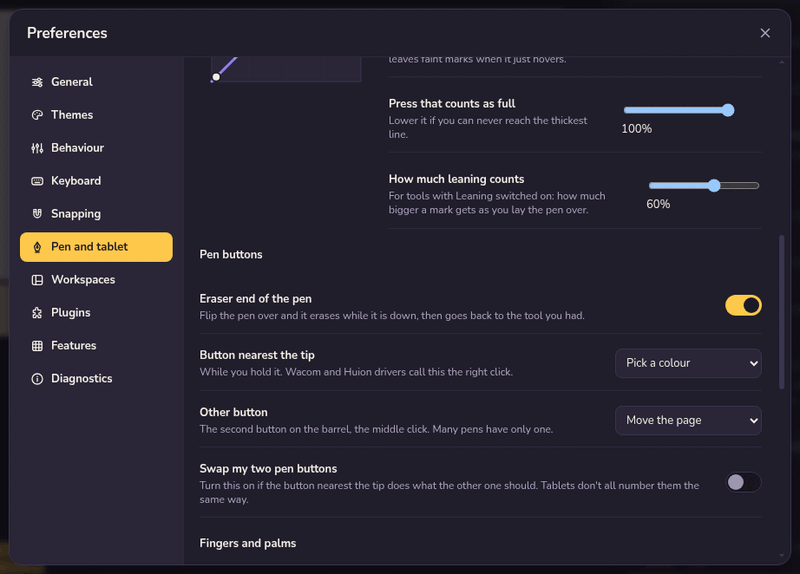
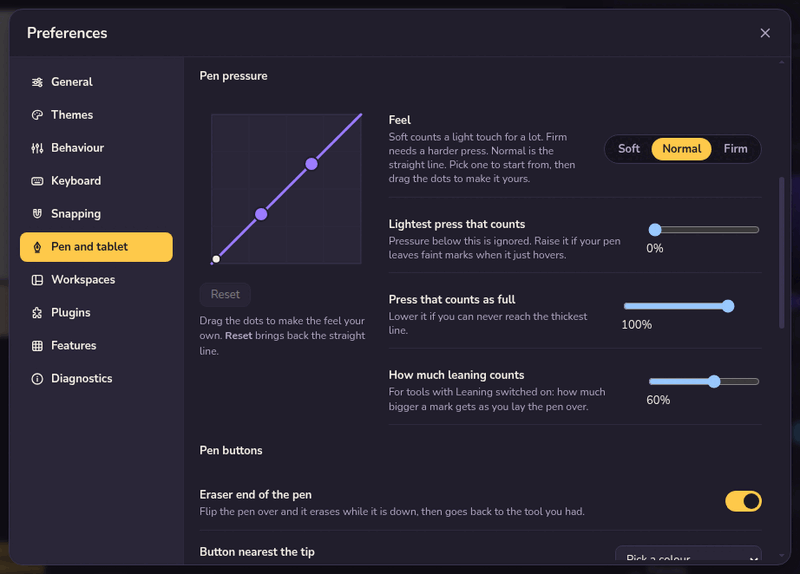
Pen and tablet: the stabilizer's 12% now reaches tools saved with the old Off, without touching anyone's own number; Reset under the pressure curve puts the straight line back and leaves the other pen settings alone
- a per-tool flag records the moment you move the slider or use the command, even to 0, so the number is yours; a tool never touched takes the start amount, and a later change to that start reaches it
- settings saved before the flag: a 0 was only ever the old start, so it becomes 12%, and any other saved number is kept as chosen
- Reset under the graph, greyed while the curve is already the straight line; the hint says Normal is the straight line and to drag the dots to make it your own
- the words above the table say what the stabilizer does and that every tool starts at 12%

diff --git a/test/tablet/pen-tidy.test.ts b/test/tablet/pen-tidy.test.ts
@@ -1,0 +1,105 @@
+// @vitest-environment jsdom
+// The stabilizer's start reaching tools whose saved settings predate it, without touching anyone's own number; and the
+// pressure curve's Reset.
+import { beforeEach, describe, expect, it } from 'vitest';
+import { CURVE_PRESETS, isPlainCurve, presetOf } from '../../src/tablet/curve';
+import { cleanPen, DEFAULT_PEN, DEFAULT_STABILIZER, getPen, PEN_TOOLS, resetPen, setPenDevice, setToolPen, stabilizerFor } from '../../src/tablet/settings';
+
+/** What every save wrote before the flag existed: all six tools in full, at the old start of 0. */
+const legacy = (over: Record<string, Record<string, unknown>> = {}) => ({
+  pen: { curve: CURVE_PRESETS.normal, min: 0, max: 1, tiltAmount: 60, eraserEnd: true, barrel1: 'eyedropper', barrel2: 'pan', swapButtons: false },
+  tools: Object.fromEntries(PEN_TOOLS.map((id) => [id, { size: false, opacity: false, flow: false, tilt: false, stabilizer: 0, stabMode: 'string', ...(over[id] ?? {}) }])),
+  seen: true,
+});
+
+beforeEach(() => resetPen());
+
+describe('stabilizerFor', () => {
+  it('keeps a number the person set, including a 0 they chose', () => {
+    expect(stabilizerFor(40, true)).toEqual({ stabilizer: 40, stabSet: true });
+    expect(stabilizerFor(0, true)).toEqual({ stabilizer: 0, stabSet: true });
+  });
+  it('gives the start to a tool that was never touched, so a change to the start reaches it', () => {
+    expect(stabilizerFor(0, false)).toEqual({ stabilizer: DEFAULT_STABILIZER, stabSet: false });
+    expect(stabilizerFor(33, false)).toEqual({ stabilizer: DEFAULT_STABILIZER, stabSet: false });
+  });
+  it('settings saved before the flag: a 0 was only the old start, any other number was chosen', () => {
+    expect(stabilizerFor(0, undefined)).toEqual({ stabilizer: DEFAULT_STABILIZER, stabSet: false });
+    expect(stabilizerFor(35, undefined)).toEqual({ stabilizer: 35, stabSet: true });
+    expect(stabilizerFor(250, undefined)).toEqual({ stabilizer: 100, stabSet: true });
+  });
+  it('anything missing or odd takes the start', () => {
+    expect(stabilizerFor(undefined, undefined).stabilizer).toBe(DEFAULT_STABILIZER);
+    expect(stabilizerFor('lots', true).stabilizer).toBe(DEFAULT_STABILIZER);
+    expect(stabilizerFor(NaN, undefined).stabilizer).toBe(DEFAULT_STABILIZER);
+  });
+});
+
+describe('saved settings from before the new start', () => {
+  it('untouched tools (all at the old 0) come up at 12%, on', () => {
+    const p = cleanPen(legacy());
+    for (const id of PEN_TOOLS) expect(p.tools[id]).toMatchObject({ stabilizer: 12, stabSet: false });
+  });
+  it('a tool the person had already set keeps its number, and the others still take the start', () => {
+    const p = cleanPen(legacy({ pencil: { stabilizer: 55 }, eraser: { stabilizer: 8 } }));
+    expect(p.tools.pencil).toMatchObject({ stabilizer: 55, stabSet: true });
+    expect(p.tools.eraser).toMatchObject({ stabilizer: 8, stabSet: true });
+    expect(p.tools.brush.stabilizer).toBe(12);
+    expect(p.tools.spray.stabilizer).toBe(12);
+  });
+  it('their other pen settings come through untouched', () => {
+    const p = cleanPen(legacy({ brush: { size: true, tilt: true, stabMode: 'average' } }));
+    expect(p.tools.brush).toMatchObject({ size: true, tilt: true, stabMode: 'average' });
+    expect(p.pen.barrel1).toBe('eyedropper');
+    expect(p.seen).toBe(true);
+  });
+  it('once saved again, a tool left alone stays at the start and a chosen 0 stays 0', () => {
+    const first = cleanPen(legacy());
+    const again = cleanPen(JSON.parse(JSON.stringify({ ...first, tools: { ...first.tools, dither: { ...first.tools.dither, stabilizer: 0, stabSet: true } } })));
+    expect(again.tools.brush).toMatchObject({ stabilizer: 12, stabSet: false });
+    expect(again.tools.dither).toMatchObject({ stabilizer: 0, stabSet: true });
+  });
+  it('a fresh start is still exactly the defaults', () => {
+    expect(cleanPen(null)).toEqual(DEFAULT_PEN);
+  });
+});
+
+describe('choosing a stabilizer', () => {
+  it('the slider (or the command) makes the number theirs, even 0', () => {
+    setToolPen('brush', { stabilizer: 0 });
+    expect(getPen().tools.brush).toMatchObject({ stabilizer: 0, stabSet: true });
+    setToolPen('pencil', { stabilizer: 30 });
+    expect(getPen().tools.pencil).toMatchObject({ stabilizer: 30, stabSet: true });
+  });
+  it('changing something else on a tool leaves it unset', () => {
+    setToolPen('shade', { size: true });
+    expect(getPen().tools.shade).toMatchObject({ size: true, stabilizer: 12, stabSet: false });
+  });
+  it('Put the pen settings back puts every tool back to 12% on, not off', () => {
+    for (const id of PEN_TOOLS) setToolPen(id, { stabilizer: 0 });
+    resetPen();
+    for (const id of PEN_TOOLS) expect(getPen().tools[id]).toMatchObject({ stabilizer: 12, stabSet: false });
+  });
+});
+
+describe('Reset under the pressure curve', () => {
+  it('only the straight line is plain', () => {
+    expect(isPlainCurve(CURVE_PRESETS.normal)).toBe(true);
+    expect(isPlainCurve(CURVE_PRESETS.soft)).toBe(false);
+    expect(isPlainCurve(CURVE_PRESETS.firm)).toBe(false);
+    expect(isPlainCurve({ x1: 0.75, y1: 0.08, x2: 0.2, y2: 0.9 })).toBe(false);
+  });
+  it('a nudge you could not see still counts as plain', () => {
+    expect(isPlainCurve({ x1: 1 / 3 + 0.004, y1: 1 / 3, x2: 2 / 3, y2: 2 / 3 - 0.004 })).toBe(true);
+    expect(isPlainCurve({ x1: 1 / 3 + 0.05, y1: 1 / 3, x2: 2 / 3, y2: 2 / 3 })).toBe(false);
+  });
+  it('puts the curve back and leaves the other pen settings alone', () => {
+    setPenDevice({ curve: { x1: 0.75, y1: 0.08, x2: 0.2, y2: 0.9 }, min: 0.1, max: 0.8, tiltAmount: 30 });
+    expect(isPlainCurve(getPen().pen.curve)).toBe(false);
+    setPenDevice({ curve: CURVE_PRESETS.normal });
+    const d = getPen().pen;
+    expect(isPlainCurve(d.curve)).toBe(true);
+    expect(presetOf(d.curve)).toBe('normal');
+    expect(d).toMatchObject({ min: 0.1, max: 0.8, tiltAmount: 30 });
+  });
+});

diff --git a/src/tablet/settings.ts b/src/tablet/settings.ts
@@ -22,6 +22,12 @@ export interface ToolPen {
   /** How much the stabilizer steadies the line, 0 (off) to 100. */
   stabilizer: number;
   stabMode: StabMode;
+  /**
+   * The stabilizer was set by the person (the slider, the command), so the number is theirs and stays. While this is
+   * false the tool simply takes the start amount, and a later change to that start reaches it. Saved settings from
+   * before this existed have no flag: see stabilizerFor.
+   */
+  stabSet: boolean;
 }
 
 export interface PenDevice {
@@ -61,7 +67,7 @@ export interface PenSettings {
 // like the line is lagging behind the pen. Each tool's own options can change it.
 export const DEFAULT_STABILIZER = 12;
 
-const tool = (o: Partial<ToolPen> = {}): ToolPen => ({ size: false, opacity: false, flow: false, tilt: false, stabilizer: DEFAULT_STABILIZER, stabMode: 'string', ...o });
+const tool = (o: Partial<ToolPen> = {}): ToolPen => ({ size: false, opacity: false, flow: false, tilt: false, stabilizer: DEFAULT_STABILIZER, stabMode: 'string', stabSet: false, ...o });
 
 export const DEFAULT_PEN: PenSettings = {
   pen: { curve: CURVE_PRESETS.normal, min: 0, max: 1, tiltAmount: 60, eraserEnd: true, barrel1: 'eyedropper', barrel2: 'pan', swapButtons: false },
@@ -71,6 +77,20 @@ export const DEFAULT_PEN: PenSettings = {
 };
 
 export const PEN_KEY = 'frameling.pen.v1';
+
+/**
+ * The stabilizer a tool should have, from what was saved for it.
+ * - Flagged as set by the person: their number, whatever it is (0 means they turned it off).
+ * - Flagged as not set: the start amount.
+ * - No flag (saved before the flag existed): every save wrote all six tools out, so a 0 there is the old start and not
+ *   a choice, and takes the new start. Any other number can only have been set by the person, so it stays.
+ */
+export function stabilizerFor(saved: unknown, flag: unknown): { stabilizer: number; stabSet: boolean } {
+  const n = typeof saved === 'number' && Number.isFinite(saved) ? Math.round(Math.min(100, Math.max(0, saved))) : null;
+  if (flag === true) return { stabilizer: n ?? DEFAULT_STABILIZER, stabSet: true };
+  if (flag === false || n === null || n === 0) return { stabilizer: DEFAULT_STABILIZER, stabSet: false };
+  return { stabilizer: n, stabSet: true };
+}
 
 const bool = (v: unknown, d: boolean): boolean => (typeof v === 'boolean' ? v : d);
 const num = (v: unknown, d: number, lo: number, hi: number): number => (typeof v === 'number' && Number.isFinite(v) ? Math.min(hi, Math.max(lo, v)) : d);
@@ -94,7 +114,7 @@ export function cleanPen(raw: unknown): PenSettings {
       opacity: bool(s.opacity, def.opacity),
       flow: bool(s.flow, def.flow),
       tilt: bool(s.tilt, def.tilt),
-      stabilizer: Math.round(num(s.stabilizer, def.stabilizer, 0, 100)),
+      ...stabilizerFor(s.stabilizer, s.stabSet),
       stabMode: oneOf(s.stabMode, ['string', 'average'] as const, def.stabMode),
     };
   }
@@ -136,7 +156,9 @@ export function setTouch(patch: Partial<TouchDevice>): void {
 }
 export function setToolPen(id: PenTool, patch: Partial<ToolPen>): void {
   const cur = getPen();
-  save(cleanPen({ ...cur, tools: { ...cur.tools, [id]: { ...cur.tools[id], ...patch } } }));
+  // Choosing a stabilizer amount, even 0, is a choice: from here on the number is theirs.
+  const next = 'stabilizer' in patch ? { ...patch, stabSet: true } : patch;
+  save(cleanPen({ ...cur, tools: { ...cur.tools, [id]: { ...cur.tools[id], ...next } } }));
 }
 export function resetPen(): void {
   save({ ...DEFAULT_PEN, seen: getPen().seen });

diff --git a/src/tablet/PenPage.tsx b/src/tablet/PenPage.tsx
@@ -5,7 +5,7 @@ import { Row, Segmented, Switch } from '../ui/PrefsModal';
 import { BARREL_ACTIONS, barrelBits, firstBarrelBit, penPress, type BarrelAction } from './buttons';
 import { penTools } from './tool';
 import { CurveEditor } from './CurveEditor';
-import { CURVE_PRESETS, PRESET_ORDER, presetOf, type CurvePreset } from './curve';
+import { CURVE_PRESETS, PRESET_ORDER, isPlainCurve, presetOf, type CurvePreset } from './curve';
 import { penFields } from './input';
 import { PEN_TOOLS, penStore, resetPen, setPenDevice, setToolPen, setTouch, type OneFinger, type PenTool } from './settings';
 import { altitudeOf, azimuthOf } from './tilt';
@@ -166,6 +166,7 @@ export function PenPage() {
   const tools = penStore.use((s) => s.tools);
   const [live, setLive] = useState<number | null>(null);
   const preset = presetOf(pen.curve);
+  const plain = isPlainCurve(pen.curve);
   return (
     <div className="tb-page">
       <h3>Pen and tablet</h3>
@@ -182,9 +183,21 @@ export function PenPage() {
 
       <h4>Pen pressure</h4>
       <div className="tb-curve-row">
-        <CurveEditor curve={pen.curve} min={pen.min} max={pen.max} live={live} onChange={(curve) => setPenDevice({ curve })} />
+        <div className="tb-curve-col">
+          <CurveEditor curve={pen.curve} min={pen.min} max={pen.max} live={live} onChange={(curve) => setPenDevice({ curve })} />
+          <button
+            type="button"
+            className="tb-clear"
+            disabled={plain}
+            onClick={() => setPenDevice({ curve: CURVE_PRESETS.normal })}
+            title={plain ? 'The curve is already the straight line.' : 'Put the curve back to the straight line. Your other pen settings stay as they are.'}
+          >
+            Reset
+          </button>
+          <p className="tb-note tb-curve-note">Drag the dots to make the feel your own. <b>Reset</b> brings back the straight line.</p>
+        </div>
         <div className="tb-curve-side">
-          <Row label="Feel" hint="Soft counts a light touch for a lot. Firm needs a harder press. Drag the dots on the graph to make your own.">
+          <Row label="Feel" hint="Soft counts a light touch for a lot. Firm needs a harder press. Normal is the straight line. Pick one to start from, then drag the dots to make it yours.">
             <Segmented<CurvePreset | 'custom'>
               label="Pressure feel"
               value={preset}
@@ -243,7 +256,7 @@ export function PenPage() {
 
       <h4>What each tool does with the pen</h4>
       <p className="tb-note">
-        The vector Brush has its own thickness switch in its options. Everything else is here, and in each tool's options. The stabilizer steadies a mouse too.
+        The vector Brush has its own thickness switch in its options. Everything else is here, and in each tool's options. The stabilizer smooths a wobbly line by letting the brush trail a little behind your pen or mouse. Every tool starts at a gentle 12%; slide it to 0 to turn it off.
       </p>
       <table className="tb-tools">
         <thead>

diff --git a/src/tablet/help.bodies.ts b/src/tablet/help.bodies.ts
@@ -14,9 +14,7 @@ export const bodies: Record<string, string> = {
 
 ## Pen and tablet preferences
 
-Open **Preferences, Pen and tablet**. Try your pen on a pad (it says whether Frameling hears a pen or a mouse), pick a **Soft**, **Normal** or **Firm** pressure feel or drag the dots on the graph, set the lightest press that counts, and choose what the buttons do. One table shows what every tool does with pressure, leaning and the stabilizer.
-
-Frameling keeps one set of settings for any pen, and one for your mouse and fingers.
+Open **Preferences, Pen and tablet**. Try your pen on a pad (it says whether Frameling hears a pen or a mouse), pick a **Soft**, **Normal** or **Firm** feel, drag the dots on the graph to make your own (**Reset** brings back the straight line), set the lightest press that counts, and choose what the buttons do. One table shows what every tool does with pressure, leaning and the stabilizer.
 
 ## Fingers and palms
 

diff --git a/src/tablet/curve.ts b/src/tablet/curve.ts
@@ -74,6 +74,12 @@ export function mapPressure(raw: number, shape: PressureShape): number {
   return curveAt(shape.curve, t);
 }
 
+/** The curve is the straight line it starts as (close enough that a nudge you can't see doesn't count). */
+export function isPlainCurve(c: Curve): boolean {
+  const n = CURVE_PRESETS.normal;
+  return Math.abs(c.x1 - n.x1) + Math.abs(c.y1 - n.y1) + Math.abs(c.x2 - n.x2) + Math.abs(c.y2 - n.y2) < 0.02;
+}
+
 /** The preset a curve is (nearly) the same as, or 'custom'. */
 export function presetOf(c: Curve): CurvePreset | 'custom' {
   const near = (a: Curve, b: Curve) => Math.abs(a.x1 - b.x1) + Math.abs(a.y1 - b.y1) + Math.abs(a.x2 - b.x2) + Math.abs(a.y2 - b.y2) < 0.02;

diff --git a/test/tablet/pure.test.ts b/test/tablet/pure.test.ts
@@ -299,7 +299,7 @@ describe('what the tools start with', () => {
   it('every drawing tool gets a gentle stabilizer, so a slow line does not wobble', () => {
     for (const id of PEN_TOOLS) expect(DEFAULT_PEN.tools[id].stabilizer).toBe(DEFAULT_STABILIZER);
     expect(DEFAULT_STABILIZER).toBe(12);
-    // Still only a suggestion: a saved 0 stays 0.
-    expect(cleanPen({ tools: { brush: { stabilizer: 0 } } }).tools.brush.stabilizer).toBe(0);
+    // Still only a suggestion: a 0 the person chose stays 0 (see pen-tidy.test.ts for the rest).
+    expect(cleanPen({ tools: { brush: { stabilizer: 0, stabSet: true } } }).tools.brush.stabilizer).toBe(0);
   });
 });

diff --git a/src/tablet/tablet.css b/src/tablet/tablet.css
@@ -116,6 +116,24 @@
   align-items: center;
   gap: 10px;
 }
+.tb-curve-col {
+  display: flex;
+  flex-direction: column;
+  align-items: flex-start;
+  gap: 8px;
+  width: 200px;
+  flex: none;
+}
+.tb-curve-note {
+  max-width: 200px;
+}
+.tb-clear:disabled {
+  opacity: 0.45;
+  cursor: default;
+}
+.tb-clear:disabled:hover {
+  background: var(--raised);
+}
 .tb-clear {
   padding: 4px 12px;
   border-radius: var(--radius-small);

diff --git a/brand/ab/pen-tidy/note.md b/brand/ab/pen-tidy/note.md
@@ -1,0 +1,11 @@
+# Pen and tablet tidy
+
+Shot in the built app under xvfb, Preferences > Pen and tablet, cropped to the settings pane. Both start from settings
+saved by the old version (every tool's stabilizer saved as 0, a curve dragged out of shape), which is what the user had.
+
+- `pen-table-dark.png`, `pen-table-light.png`: A (left) is the table as it was, every stabilizer at Off. B (right) is the
+  same saved settings now, a gentle 12% on every tool, with the words above the table saying what the stabilizer does.
+- `pen-curve-dark.png`, `pen-curve-light.png`: A (left) is the dragged-out curve with nothing to put it back. B (middle) has
+  **Reset** under the graph and a plainer Feel hint. C (right) is after pressing Reset: the straight line is back, **Normal**
+  is lit, **Reset** waits (greyed) because the curve is already plain, and the lightest press, full press and leaning
+  sliders are exactly where they were.
